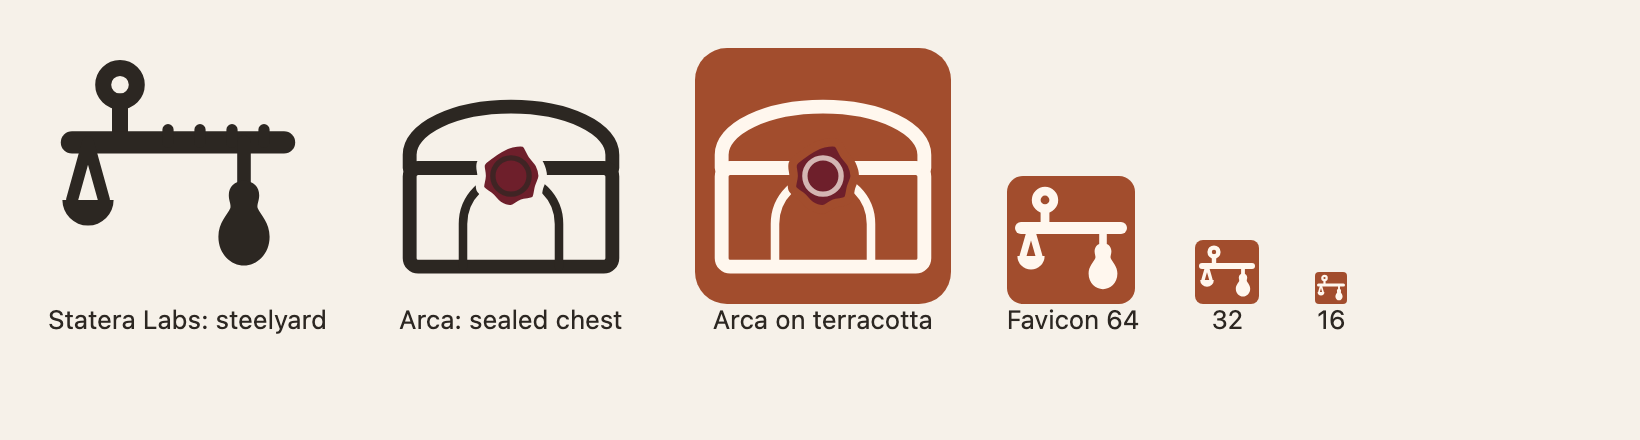
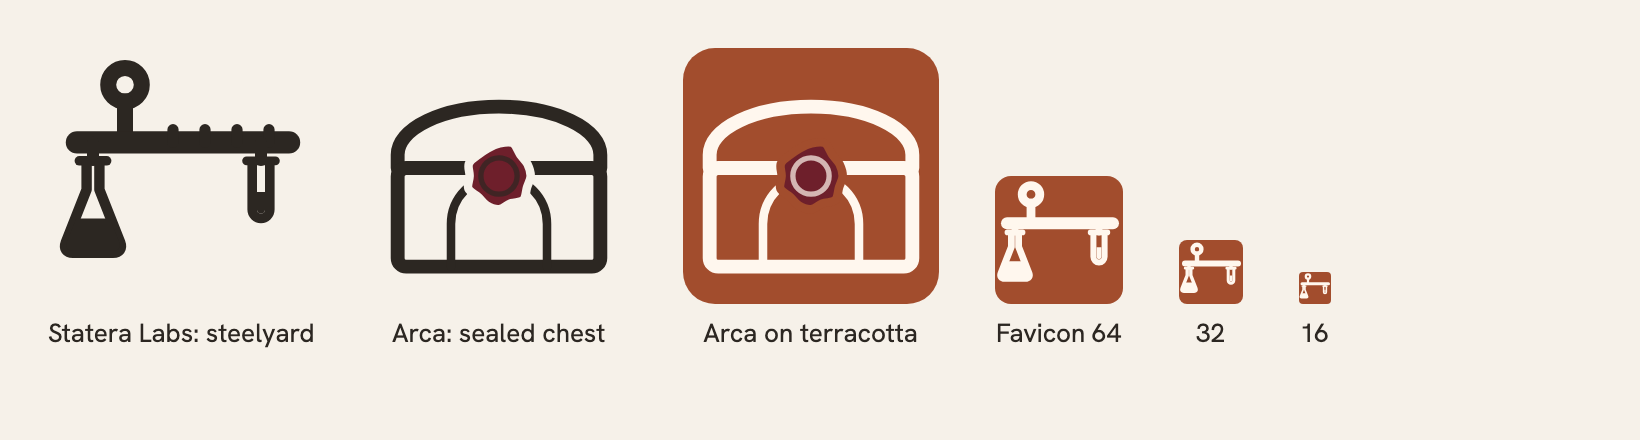
Statera Labs steelyard now weighs glassware, with a brand kit (#4)
The steelyard mark's pan and pear-shaped poise become an outlined flask and
vial: a large flask near the hook balancing a small vial far out, which is
how a steelyard weighs. The favicon gets a heavier-stroke version so it holds
at 16 px. The Arca marks are unchanged.

docs/brand/kit/ holds SVG, PNG and JPG exports of every mark (avatars for
chat and profile pictures, marks for light and dark pages, favicon sizes)
for use on other sites.

diff --git a/index.html b/index.html
@@ -47,13 +47,19 @@
             d="M15 11.8v-1.6M19 11.8v-1.6M23 11.8v-1.6M27 11.8v-1.6"
             stroke-width="1.4"
           />
-          <path d="M5 11.8 3 19m2-7.2L7 19" stroke-width="1.5" />
-          <path class="solid" d="M1.8 19h6.4a3.2 3.2 0 0 1-6.4 0Z" />
-          <path d="M24.5 11.8v5.4" stroke-width="1.7" />
+          <path d="M5 11.8v2.2M26 11.8v2.2" stroke-width="1.5" />
+          <path d="M3.3 14.1h3.4" stroke-width="1.2" />
+          <path
+            d="M4.2 14.4v3.3l-2.6 6.6c-.3.8.1 1.3.9 1.3h5c.8 0 1.2-.5.9-1.3L5.8 17.7v-3.3"
+            stroke-width="1.3"
+          />
           <path
             class="solid"
-            d="M24.5 16.6c1.2 0 1.9.8 1.9 1.8 0 .7-.3 1.1-.2 1.6.4.9 1.5 1.8 1.5 3.6 0 2.2-1.6 3.6-3.2 3.6s-3.2-1.4-3.2-3.6c0-1.8 1.1-2.7 1.5-3.6.1-.5-.2-.9-.2-1.6 0-1 .7-1.8 1.9-1.8Z"
-          /></svg
+            d="M2.9 21.3h4.2l1.2 3c.2.6-.1 1-.7 1H2.4c-.6 0-.9-.4-.7-1Z"
+          />
+          <path d="M24.2 14.1h3.6" stroke-width="1.1" />
+          <path d="M24.9 14.3v5.9a1.1 1.1 0 0 0 2.2 0v-5.9" stroke-width="1.2" />
+          <path class="solid" d="M25.5 18h1v2.2a.5.5 0 0 1-1 0Z" /></svg
         ><span>statera<span class="labs">labs</span></span></a
       >
       <nav aria-label="Main navigation">
@@ -229,13 +235,19 @@
             d="M15 11.8v-1.6M19 11.8v-1.6M23 11.8v-1.6M27 11.8v-1.6"
             stroke-width="1.4"
           />
-          <path d="M5 11.8 3 19m2-7.2L7 19" stroke-width="1.5" />
-          <path class="solid" d="M1.8 19h6.4a3.2 3.2 0 0 1-6.4 0Z" />
-          <path d="M24.5 11.8v5.4" stroke-width="1.7" />
+          <path d="M5 11.8v2.2M26 11.8v2.2" stroke-width="1.5" />
+          <path d="M3.3 14.1h3.4" stroke-width="1.2" />
+          <path
+            d="M4.2 14.4v3.3l-2.6 6.6c-.3.8.1 1.3.9 1.3h5c.8 0 1.2-.5.9-1.3L5.8 17.7v-3.3"
+            stroke-width="1.3"
+          />
           <path
             class="solid"
-            d="M24.5 16.6c1.2 0 1.9.8 1.9 1.8 0 .7-.3 1.1-.2 1.6.4.9 1.5 1.8 1.5 3.6 0 2.2-1.6 3.6-3.2 3.6s-3.2-1.4-3.2-3.6c0-1.8 1.1-2.7 1.5-3.6.1-.5-.2-.9-.2-1.6 0-1 .7-1.8 1.9-1.8Z"
-          /></svg
+            d="M2.9 21.3h4.2l1.2 3c.2.6-.1 1-.7 1H2.4c-.6 0-.9-.4-.7-1Z"
+          />
+          <path d="M24.2 14.1h3.6" stroke-width="1.1" />
+          <path d="M24.9 14.3v5.9a1.1 1.1 0 0 0 2.2 0v-5.9" stroke-width="1.2" />
+          <path class="solid" d="M25.5 18h1v2.2a.5.5 0 0 1-1 0Z" /></svg
         ><span>statera<span class="labs">labs</span></span></a
       >
       <p>Considered software. Human matters.</p>

diff --git a/docs/brand/kit/README.md b/docs/brand/kit/README.md
@@ -1,0 +1,32 @@
+# Brand kit
+
+Statera Labs and Arca marks for other sites, profiles and chat apps. Every PNG
+and JPG is rendered from the SVG of the same name in `svg/`; edit the SVG and
+re-render rather than editing a raster.
+
+Colours: paper `#f6f1e9`, ink `#2c2722`, terracotta `#a24d2d`, cream `#fff7ee`.
+Oxblood `#6e1f2b` is the Arca seal only.
+
+## Which file to use
+
+| Need | File |
+| --- | --- |
+| Profile picture or avatar (Slack, GitHub, LinkedIn, X, Google) | `statera-avatar-terracotta` (default), `-paper`, or `-ink`. Square, full bleed, safe inside a circle crop. |
+| Mark on a light page or document | `statera-mark-ink` or `statera-mark-terracotta` |
+| Mark on a dark page | `statera-mark-cream` |
+| Browser tab, app icon | `statera-favicon` (16 to 512 px; 180 is the Apple touch icon) |
+| Arca, the product | `arca-mark`, or `arca-mark-on-terracotta` on its tile |
+
+Prefer SVG where a site accepts it. Use PNG (transparent) when it doesn't, and
+JPG only where transparency is refused; the JPGs are 1024 px squares with the
+mark centred on a solid ground.
+
+## Files
+
+- `svg/`: the source of every mark.
+- `png/<name>-<width>.png`: transparent, at the widths listed in the folder.
+- `jpg/<name>.jpg`: 1024 × 1024.
+
+The Statera marks are trimmed tight to the drawing; leave clear space of at
+least the hook's diameter around them. The avatars use the heavier favicon
+strokes so the glass still reads at 32 px.

diff --git a/README.md b/README.md
@@ -11,7 +11,8 @@ Arca's own palette: parchment, ink and terracotta, with oxblood sealing wax used
 only in the Arca mark. Self-hosted type: Newsreader for headings (as in Arca
 itself) and Hanken Grotesk for text; font licenses are in `assets/`. The
 Newsreader italic is a Latin subset fixed at weight 400 and display size,
-because it sets only a headline word. Statera Labs' mark is a steelyard (*statera*); Arca's is a sealed
+because it sets only a headline word. Statera Labs' mark is a steelyard
+(*statera*) weighing a large flask against a small vial; Arca's is a sealed
 chest (*arca*) with an arch on its face, drawn inline as SVG. The principle
 symbols are arches expressing a common ground for counsel and clients. Nothing
 is loaded from an outside service at runtime. The page has three numbered
